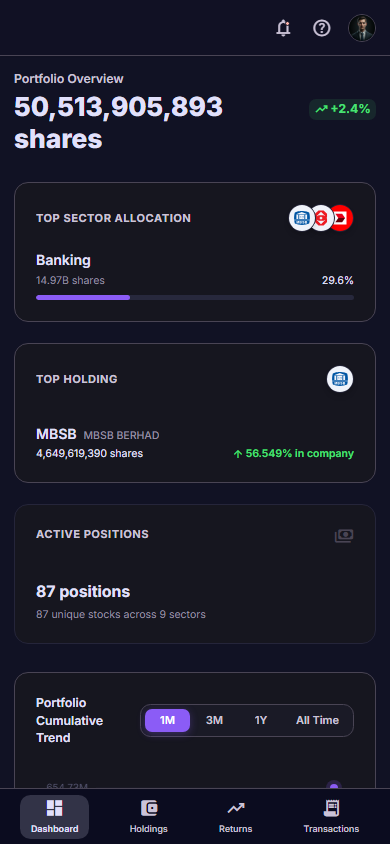
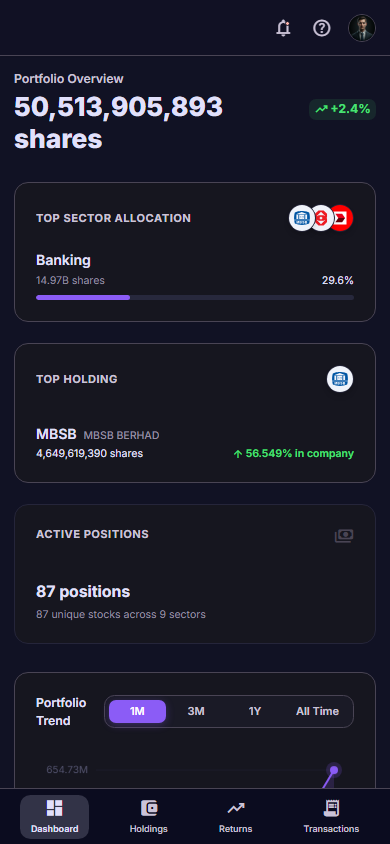
feat: initialize frontend architecture with dashboard layout and responsive navigation sidebar

diff --git a/frontend/app.js b/frontend/app.js
@@ -478,11 +478,13 @@ document.querySelectorAll('.tab-btn').forEach(btn => {
     } else if (btn.dataset.tab === 'holdings') {
       requestAnimationFrame(() => {
         const pieData = getPieData(currentPieMode);
-        drawPieChart('pie-canvas', pieData, currentPieMode);
+        drawPieChart('pie-canvas', pieData, currentPieMode, !pieChartDrawn);
+        pieChartDrawn = true;
       });
     } else if (btn.dataset.tab === 'dashboard') {
       requestAnimationFrame(() => {
-        drawLineChart('portfolio-canvas', getPortfolioTimeSeries(currentRange));
+        drawLineChart('portfolio-canvas', getPortfolioTimeSeries(currentRange), '#8b5cf6', !lineChartDrawn);
+        lineChartDrawn = true;
       });
     }
   });
@@ -660,7 +662,7 @@ function getPortfolioTimeSeries(range) {
 
 let lineChartAnimId = null;
 
-function drawLineChart(canvasId, data, color = '#8b5cf6') {
+function drawLineChart(canvasId, data, color = '#8b5cf6', animateChart = true) {
   const canvas = document.getElementById(canvasId);
   if (!canvas) return;
   const ctx = canvas.getContext('2d');
@@ -728,7 +730,9 @@ function drawLineChart(canvasId, data, color = '#8b5cf6') {
     // X-axis labels
     ctx.fillStyle = '#555570';
     ctx.textAlign = 'center';
-    const labelStep = Math.max(1, Math.floor(data.length / 6));
+    const isMobile = window.innerWidth < 768;
+    const maxLabels = isMobile ? 3 : 6;
+    const labelStep = Math.max(1, Math.floor(data.length / maxLabels));
     for (let i = 0; i < data.length; i += labelStep) {
       const x = pad.left + (plotW * i / (data.length - 1));
       const parts = data[i].label.split(' ');
@@ -845,7 +849,12 @@ function drawLineChart(canvasId, data, color = '#8b5cf6') {
   }
 
   // Start animation
-  lineChartAnimId = requestAnimationFrame(animate);
+  if (!animateChart) {
+    startTime = performance.now();
+    animate(startTime + DURATION);
+  } else {
+    lineChartAnimId = requestAnimationFrame(animate);
+  }
 }
 
 // ============================================
@@ -887,7 +896,7 @@ function getPieData(mode) {
 
 let currentPieModeForDraw = 'company';
 let pieChartAnimId = null;
-function drawPieChart(canvasId, data, mode) {
+function drawPieChart(canvasId, data, mode, animateChart = true) {
   currentPieModeForDraw = mode || 'company';
   const canvas = document.getElementById(canvasId);
   if (!canvas) return;
@@ -976,7 +985,12 @@ function drawPieChart(canvasId, data, mode) {
   }
 
   // Start animation
-  pieChartAnimId = requestAnimationFrame(animate);
+  if (!animateChart) {
+    startTime = performance.now();
+    animate(startTime + DURATION);
+  } else {
+    pieChartAnimId = requestAnimationFrame(animate);
+  }
 }
 
 function renderPieLegend(data) {
@@ -1083,7 +1097,9 @@ function drawBarChart(canvasId, data, color = '#8b5cf6') {
   // X-axis labels
   ctx.fillStyle = '#555570';
   ctx.textAlign = 'center';
-  const step = Math.max(1, Math.floor(data.length / 8));
+  const isMobile = window.innerWidth < 768;
+  const maxLabels = isMobile ? 4 : 8;
+  const step = Math.max(1, Math.floor(data.length / maxLabels));
   for (let i = 0; i < data.length; i += step) {
     const x = pad.left + (plotW * i / data.length) + barW / 2;
     const parts = data[i].label.split(' ');
@@ -1675,6 +1691,10 @@ function setupBarChartHover() {
 // Event Bindings & Initial Render
 // ============================================
 
+let lineChartDrawn = false;
+let pieChartDrawn = false;
+let barChartDrawn = false;
+
 // Time range toggle for portfolio chart
 let currentRange = '1M';
 document.getElementById('time-toggle').addEventListener('click', (e) => {
@@ -1684,7 +1704,7 @@ document.getElementById('time-toggle').addEventListener('click', (e) => {
   btn.classList.add('active');
   currentRange = btn.dataset.range;
   const series = getPortfolioTimeSeries(currentRange);
-  drawLineChart('portfolio-canvas', series);
+  drawLineChart('portfolio-canvas', series, '#8b5cf6', true);
   const lastVal = series.length > 0 ? series[series.length - 1].value : 0;
   document.getElementById('portfolio-value-display').textContent = formatCompact(lastVal) + ' shares (net)';
 });
@@ -1698,7 +1718,7 @@ document.getElementById('pie-toggle').addEventListener('click', (e) => {
   btn.classList.add('active');
   currentPieMode = btn.dataset.mode;
   const pieData = getPieData(currentPieMode);
-  drawPieChart('pie-canvas', pieData, currentPieMode);
+  drawPieChart('pie-canvas', pieData, currentPieMode, true);
   renderPieLegend(pieData);
 });
 
@@ -1810,7 +1830,7 @@ function init() {
   document.getElementById('bento-unique-count').textContent = `${EPF_DATA.uniqueStocks} unique stocks across ${sortedSectors.length} sectors`;
 
   // Recent Announcements Feed
-  const latestTx = allFlatTx.slice(0, 4);
+  const latestTx = allFlatTx.slice(0, 8);
   const activityFeed = document.getElementById('bento-activity-feed');
   if (activityFeed) {
     activityFeed.innerHTML = latestTx.map(tx => {
@@ -1919,12 +1939,14 @@ function init() {
   // Portfolio chart
   const series = getPortfolioTimeSeries(currentRange);
   drawLineChart('portfolio-canvas', series);
+  lineChartDrawn = true;
   const lastVal = series.length > 0 ? series[series.length - 1].value : 0;
   document.getElementById('portfolio-value-display').textContent = formatCompact(lastVal) + ' shares (net)';
 
   // Pie chart
   const pieData = getPieData(currentPieMode);
   drawPieChart('pie-canvas', pieData, currentPieMode);
+  pieChartDrawn = true;
   renderPieLegend(pieData);
 
   // Returns
@@ -2012,12 +2034,16 @@ document.addEventListener('click', (event) => {
 
 // Handle resize
 let resizeTimeout;
+let lastWidth = window.innerWidth;
 window.addEventListener('resize', () => {
+  if (window.innerWidth === lastWidth) return; // Prevent address-bar scroll toggles from restarting animation!
+  lastWidth = window.innerWidth;
+  
   clearTimeout(resizeTimeout);
   resizeTimeout = setTimeout(() => {
-    drawLineChart('portfolio-canvas', getPortfolioTimeSeries(currentRange));
+    drawLineChart('portfolio-canvas', getPortfolioTimeSeries(currentRange), '#8b5cf6', false);
     const pieData = getPieData(currentPieMode);
-    drawPieChart('pie-canvas', pieData, currentPieMode);
+    drawPieChart('pie-canvas', pieData, currentPieMode, false);
     drawBarChart('returns-canvas', getReturnsData(currentReturnsView));
   }, 200);
 });

diff --git a/frontend/index.html b/frontend/index.html
@@ -209,7 +209,7 @@
           <!-- Cumulative Portfolio Value Chart -->
           <div class="lg:col-span-2 bg-[#16161f] border border-outline-variant rounded-xl p-6 glow-hover transition-all flex flex-col min-h-[380px]">
             <div class="flex justify-between items-center mb-6">
-              <h3 class="text-sm font-semibold text-on-surface">Portfolio Cumulative Trend</h3>
+              <h3 class="text-sm font-semibold text-on-surface">Portfolio Trend</h3>
               
               <!-- Original Range Toggle embedded seamlessly! -->
               <div class="chart-toggle-group flex gap-0.5 bg-[#1a1a26] p-1 rounded-lg border border-outline-variant" id="time-toggle">
@@ -250,7 +250,7 @@
       <section id="panel-holdings" class="tab-panel hidden flex flex-col gap-6 w-full min-w-0">
         
         <!-- Allocation Pie/Donut Chart Card (Placed Above) -->
-        <div class="chart-card bg-[#16161f] border border-[#25253a] rounded-xl p-4 md:p-6 glow-hover transition-all flex flex-col min-w-0 w-full overflow-hidden" id="pie-chart-card">
+        <div class="chart-card bg-[#16161f] border border-[#25253a] rounded-xl p-4 md:p-6 glow-hover transition-all flex flex-col min-w-0 w-full overflow-hidden max-w-xl md:max-w-2xl mx-auto" id="pie-chart-card">
           <div class="chart-header flex justify-between items-center mb-4">
             <h3 class="chart-title text-sm font-semibold text-on-surface">Allocation Analysis</h3>
             <div class="chart-toggle-group flex gap-0.5 bg-[#1a1a26] p-1 rounded-lg border border-outline-variant" id="pie-toggle">
@@ -313,7 +313,7 @@
         <!-- Main Net Activity Chart Card -->
         <div class="bg-[#16161f] border border-[#25253a] rounded-xl p-4 md:p-6 glow-hover transition-all flex flex-col min-w-0 w-full overflow-hidden min-h-[420px]">
           <div class="flex justify-between items-center mb-6">
-            <h3 class="text-sm font-semibold text-on-surface">Net Activity by Date</h3>
+            <h3 class="text-sm font-semibold text-on-surface">Net Activity</h3>
             <div class="chart-toggle-group flex gap-0.5 bg-[#1a1a26] p-1 rounded-lg border border-outline-variant" id="returns-toggle">
               <button class="chart-toggle active px-3 py-1 rounded text-[11px] font-semibold transition-all active" data-view="net">Net</button>
               <button class="chart-toggle px-3 py-1 rounded text-[11px] font-semibold transition-all" data-view="acquired">Acquired</button>